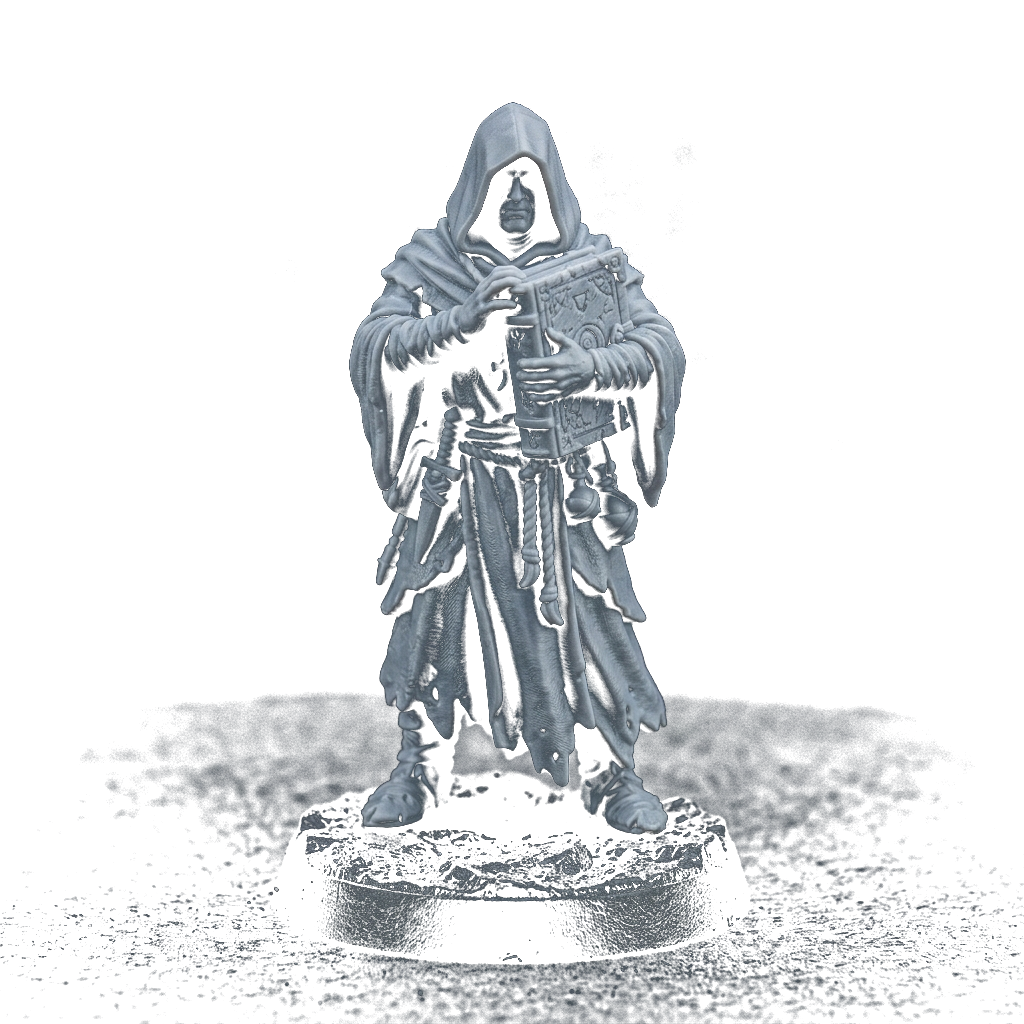
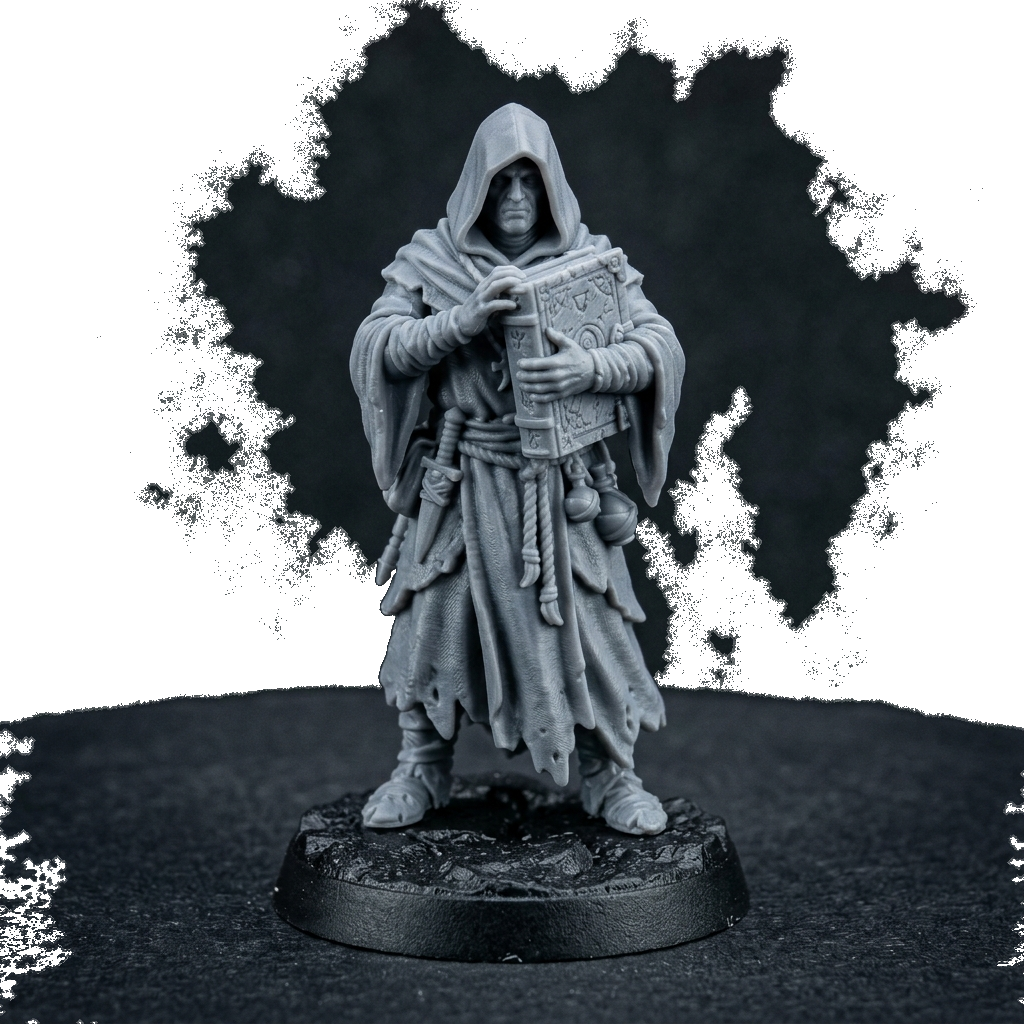
fix: flood-fill background removal + faction uplight on miniatures for contrast against grey map ocean

diff --git a/src/game/miniatures-3d.js b/src/game/miniatures-3d.js
@@ -73,16 +73,24 @@ export class MiniatureFactory {
     rimMesh.position.y  = baseH + 0.01;
     group.add(rimMesh);
 
+    // Faction-colored up-light: illuminates the miniature artwork in faction color
+    // so it pops against the grey/neutral map background
+    const upLight = new THREE.PointLight(hexColor, isGOO ? 2.2 : 1.6, isGOO ? 9 : 6);
+    upLight.position.set(0, baseH + 0.5, 0.5);
+    group.add(upLight);
+
     // ── Artwork billboard ─────────────────────────────────────
     const imgUrl = UNIT_IMAGES[unitType] ?? UNIT_IMAGES['cultist'];
     const tex    = getTex(imgUrl);
 
-    const billMat = new THREE.MeshBasicMaterial({
-      map:        tex,
-      transparent: true,
-      alphaTest:   0.08,        // discard near-transparent (feathered edge) fragments
-      depthWrite:  false,
-      side:        THREE.DoubleSide,
+    const billMat = new THREE.MeshStandardMaterial({
+      map:               tex,
+      transparent:       true,
+      alphaTest:         0.08,
+      depthWrite:        false,
+      roughness:         0.6,
+      metalness:         0.0,
+      side:              THREE.DoubleSide,
     });
 
     const billboard = new THREE.Mesh(
